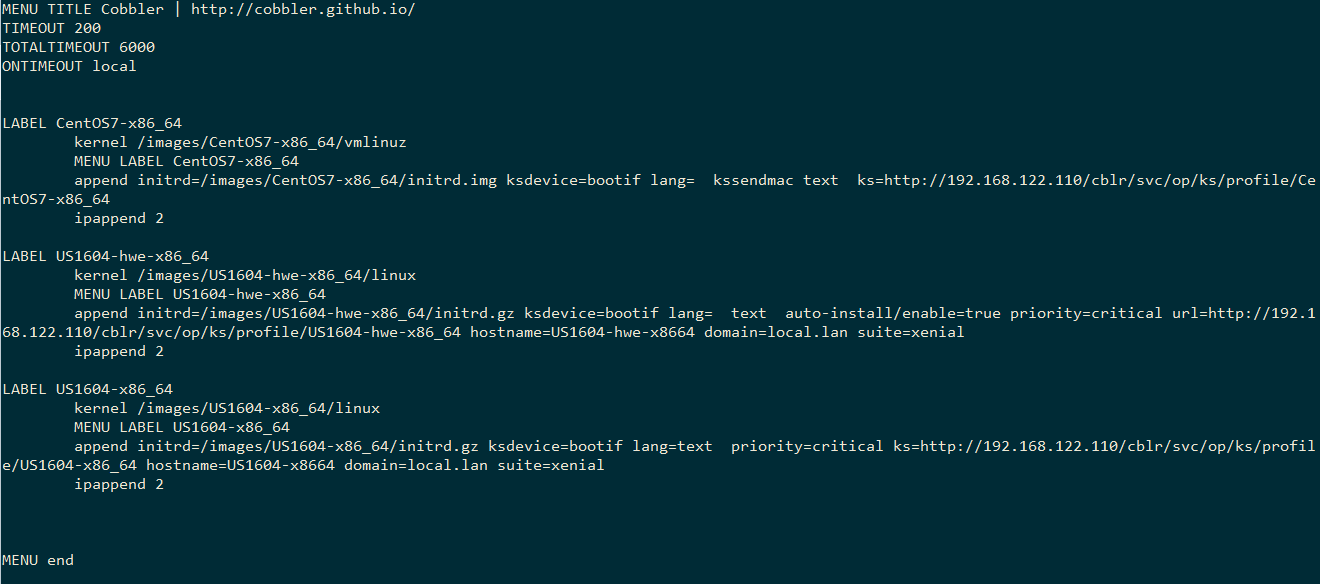
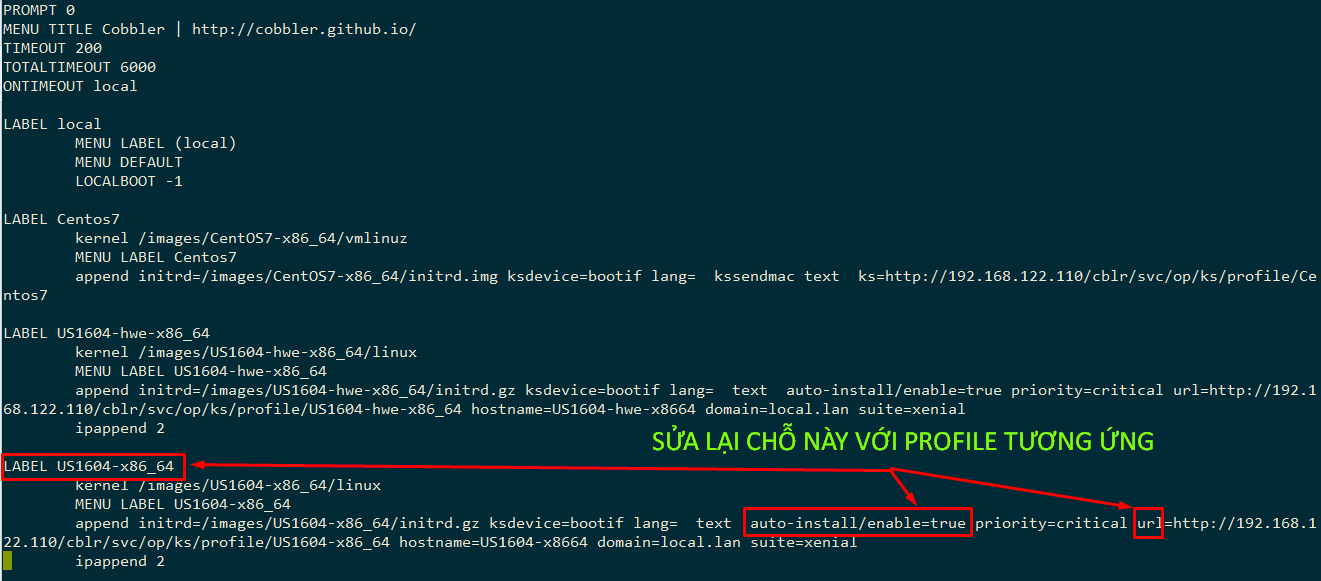
update sửa báo cáo cài đặt cobbler

diff --git a/docs/2.Cobbler-cai_dat.md b/docs/2.Cobbler-cai_dat.md
@@ -135,45 +135,83 @@ Trong đó:
 
 	![img](../images/4.4.png)
 
-- Đăng nhập với user mặc định là cobbler, password là cobbler ta được giao diện cobbler như sau:
+- Đăng nhập với user mặc định là **cobbler**, password là `cobbler` ta được giao diện cobbler như sau:
 
 	![img](../images/4.5.png)
 
-Như vậy là cobbler đã được cài đặt thành công, và tiếp theo là các bước cấu hình cobbler.
+- Để thay thay đổi hoặc thêm người dùng khác cho Cobbler, ta sử dụng lệnh sau:
+
+	```
+	htdigest /etc/cobbler/users.digest "Cobbler" <user_name>
+	```
+
+	- Sau đó nhập password vào thiết lập mật khấu cho người dùng mới thêm. Sau khi thêm user mới, kiểm tra lại user mới đã có chưa trong file `/etc/cobbler/users.digest`
+	
+	- Khởi động lại cobbler:
+
+		```
+		systemctl restart cobblerd
+		cobbler sync
+		```
+	
+	- Đăng nhập lại bằng người dùng mới là xong.
+
+- Như vậy là cobbler đã được cài đặt thành công, và tiếp theo là các bước cấu hình cobbler.
 
 <a name = '2.5'></a>
 # 2.5.	Bước 5: Cấu hình Cobbler
 
 ### Sửa file cấu hình Cobbler /etc/cobbler/settings
 
-- Sử dụng `openssl` để sinh ra mật khẩu cho cobbler đã được mã hóa như sau:
+- Sử dụng `openssl` để sinh ra mật khẩu đã được mã hóa như sau:
 
 	```
 	openssl passwd -1
-	Password:
-	Verifying - Password:
+	Password: <enter_password_here>
+	Verifying - Password: <reenter_password_here>
 	$1$1unDtJqr$6THfdcVTmF58L35aigs7N/
 	```
-
-	(Mật khẩu tôi dùng ở đây vẫn sử dụng là cobbler, sinh ra được đoạn password đã được mã hóa như trên)
-
-- Sửa file `/etc/cobbler/settings` với các thông số `default_password_crypted` với password vừa sinh ra ở trên, và cập nhật các thông số của DHCP, DNS, PXE từ 0 lên 1 như sau: 
-
-	```
-	default_password_crypted: "$1$1unDtJqr$6THfdcVTmF58L35aigs7N/"
-	manage_dhcp: 1
-	manage_dns: 1
-	pxe_just_once: 1
-	next_server: 192.168.122.110
-	server: 192.168.122.110
-	```
 	
-	- Trong đó, `server` là địa chỉ IP của cobbler server (lưu ý: không sử dụng địa chỉ `0.0.0.0`, nên sử dụng địa chỉ IP mà bạn muốn các client sử dụng để liên lạc với cobbler server với các giao thức như http, tftp), `next_server` là địa chỉ IP của TFTP server mà các file boot (kernel, initrd) được lấy về. Thường thì sẽ thiết lập cho cùng là Cobbler server.
-	
-	- Để thực hiện boot PXE, người quản trị cần một DHCP server để cấp phát IP và chuyển hướng trực tiếp client boot tới TFTP server nơi mà nó có thể download các file boot. Cobbler có thể quản lý và thực hiện việc này, thông qua sửa đồi thông số `manage_dhcp: 1` (cho phép dịch vụ DHCP chạy local trên máy server)
-	
-	- Khi thay đổi từ 0 lên 1, cobbler sẽ tự động sinh ra file cấu hình `dhcpd.conf` dựa trên `dhcp.template` của cobbler.
+- Sửa file `/etc/cobbler/settings` với các thông số `default_password_crypted` với password đã được mã hóa vừa sinh ra ở trên, và cập nhật các thông số của DHCP, DNS, PXE từ 0 lên 1 như sau: 
 
+	- Thay thế mật khẩu vừa tạo vào mật khẩu mặc định: (sửa tại dòng 101)
+
+		```
+		default_password_crypted: "$1$1unDtJqr$6THfdcVTmF58L35aigs7N/"
+		```
+
+		Đoạn password này được sử dụng để làm password mặc định cho client khi được cấu hình trong file kickstart sử dụng với tùy chọn `--iscrypted` 
+
+		Ví dụ: 
+
+			```
+			#Root password
+			rootpw --iscrypted $default_password_crypted
+			```
+		Khi đó, các client khi boot lên sẽ có password như đã cấu hình. Việc này nhằm mục đích tăng tính bảo mật, không cho người khác thấy rõ được password của bạn.
+
+	- Để thực hiện boot PXE, người quản trị cần một DHCP server để cấp phát IP và chuyển hướng trực tiếp client boot tới TFTP server nơi mà nó có thể download các file boot. Cobbler có thể quản lý và thực hiện việc này, và đồng thời quản lý dịch vụ DNS (nếu có, tuy nhiên vẫn cần cấu hình) thông qua sửa đồi thông số `manage_dhcp` và `manage_dns` (cho phép dịch vụ DHCP chạy local trên máy server). Thực hiện sửa đổi bằng lệnh như sau:
+
+		```
+		sed -i 's/manage_dhcp: 0/manage_dhcp: 1/g' /etc/cobbler/settings
+		sed -i 's/manage_dns: 0/manage_dns: 1/g' /etc/cobbler/settings
+		```
+
+	- Kích hoạt cho phép boot các file cấu hình cài đặt OS qua card mạng
+
+		```
+		sed -i 's/pxe_just_once: 0/pxe_just_once: 1/g' /etc/cobbler/settings
+		```
+
+	- Chỉnh sửa IP của TFTP server (`next_server`) và IP của Cobbler (`server`). Thực hiện các lệnh sau:
+
+		```
+		sed -i 's/next_server: 127.0.0.1/next_server: 192.168.122.110/g' /etc/cobbler/settings
+		sed -i 's/server: 127.0.0.1/server: 192.168.122.110/g' /etc/cobbler/settings
+		```
+
+		Trong đó, `server` là địa chỉ IP của cobbler server (lưu ý: không sử dụng địa chỉ `0.0.0.0`, nên sử dụng địa chỉ IP mà bạn muốn các client sử dụng để liên lạc với cobbler server với các giao thức như http, tftp), `next_server` là địa chỉ IP của TFTP server mà các file boot (kernel, initrd) được lấy về. Thường thì sẽ thiết lập cho cùng là Cobbler server.
+	
 ### Cập nhật file cấu hình DHCP và DNSMASQ
 
 - Sửa file cấu hình của DHCP như sau `vi /etc/cobbler/dhcp.template`
@@ -223,6 +261,8 @@ Như vậy là cobbler đã được cài đặt thành công, và tiếp theo l
 	systemctl restart cobblerd
 	systemctl restart xinetd
 	systemctl enable xinetd
+	systemctl restart dhcpd
+	systemctl restart tftp
 	cobbler get-loaders
 	cobbler check
 	cobbler sync
@@ -280,9 +320,15 @@ Như vậy là cobbler đã được cài đặt thành công, và tiếp theo l
 <a name = '2.8'></a>
 ## 2.8.	Bước 8: Sửa file cấu hình boot
 
-Ở đây khi thực hiện lab, có một vấn đề xảy ra với boot Ubuntu server 16.04 là lỗi không tìm được file kickstart. Sau khi tìm hiểu, tôi thấy bỏ đoạn cấu hình `auto-install/enable=true`  và thay thế đoạn file kickstart từ `url=` thành `ks=` trong menu boot của Ubuntu như sau là client boot file kickstart và cài đặt OS bình thường:  
+Ở đây khi thực hiện lab, khi thực hiện boot OS Centos thì không có vấn đề gì xảy ra, nhưng khi thực hiện boot OS là Ubuntu thì gặp lỗi là không tìm được file kickstart. Sau khi tìm hiểu, tôi thấy bỏ đoạn cấu hình `auto-install/enable=true`  và thay thế đoạn file kickstart từ `url=` thành `ks=` trong menu boot (file `/var/lib/tftpboot/pxelinux.cfg/default`) profile US1604-x86_64 tương ứng với Ubuntu như sau là client boot file kickstart và cài đặt OS bình thường:  
 
 ![img](../images/4.10.png)
+
+Sửa thành như sau:
+
+![img](../images/4.15.png)
+
+Sau khi sửa xong, máy client có thể boot OS Ubuntu lên không gặp lỗi nữa.
 
 <a name = '3'></a>
 # 3. Cài đặt Cobbler sử dụng scripts
@@ -294,6 +340,8 @@ Như vậy là cobbler đã được cài đặt thành công, và tiếp theo l
 	- Download scripts về sử dụng `wget` như sau: 
 
 		```
+		mkdir Cobbler_scripts
+		cd Cobbler_scripts
 		wget https://raw.githubusercontent.com/ThanhTamPotter/ghichep-cobbler/master/scripts/cobbler-install.sh
 		wget https://raw.githubusercontent.com/ThanhTamPotter/ghichep-cobbler/master/scripts/config.sh
 		chmod 755 *.sh
@@ -303,7 +351,7 @@ Như vậy là cobbler đã được cài đặt thành công, và tiếp theo l
 
 	- Chạy file script cài đặt cobbler: 
 
-		`source cobbler.sh`
+		`source cobbler-install.sh`
 
 - Sau khi cài đặt xong, kiểm tra giao diện cobbler và thực hiện các bước 6, 7, 8 như hướng dẫn mục 2.
 
@@ -346,6 +394,8 @@ Phần này đã sửa lại trong file kickstart [US1604.cfg.ks](../config_file
 [2] https://www.linuxtechi.com/install-and-configure-cobbler-on-centos-7/
 
 [3] https://letonphat.wordpress.com/2011/07/05/tri%E1%BB%83n-khai-ci-d%E1%BA%B7t-h%E1%BB%87-th%E1%BB%91ng-linux-t%E1%BB%B1-d%E1%BB%99ng-v%E1%BB%9Bi-cobbler/ 
+
+[4] http://openskill.info/infobox.php?ID=1461
 
 
 

diff --git a/docs/7.Mot_so_ghi_chep_Cobbler.md b/docs/7.Mot_so_ghi_chep_Cobbler.md
@@ -1,0 +1,34 @@
+# MỘT SỐ GHI CHÉP VỀ COBBLER
+
+<a name = '1'></a>
+# 1. Thêm người dùng quản trị cobbler
+
+- Mặc định, ban đầu Cobbler có người dùng quản trị là **cobbler** và mật khẩu là `cobbler`. Việc này không đảm bảo tính bảo mật của hệ thống. Nên tạo một người dùng mới cho hệ thống của bạn và dùng mật khẩu mà chỉ người quản trị mới biết được. Đồng thời xóa người dùng **cobbler** mặc định đi.
+
+- Để thay thay đổi hoặc thêm người dùng khác cho Cobbler, ta sử dụng lệnh sau:
+
+	```
+	htdigest /etc/cobbler/users.digest "Cobbler" <user_name>
+	```
+
+	- Sau đó nhập password vào thiết lập mật khấu cho người dùng mới thêm. Sau khi thêm user mới, kiểm tra lại user mới đã có chưa trong file `/etc/cobbler/users.digest`
+	
+	- Khởi động lại cobbler:
+
+		```
+		systemctl restart cobblerd
+		cobbler sync
+		```
+	
+	- Đăng nhập lại bằng người dùng mới là xong.
+
+- Xóa người dùng **cobbler** mặc định bằng cách comment hoặc xóa người dùng cobbler trong file `/etc/cobbler/users.digest`:
+
+	![img](../images/7.1.png)
+
+	Khởi động lại cobbler như trên là hoàn thành. Bây giờ trong hệ thống không còn người dùng **cobbler** mặc định nữa.
+
+
+***updating...***
+
+
